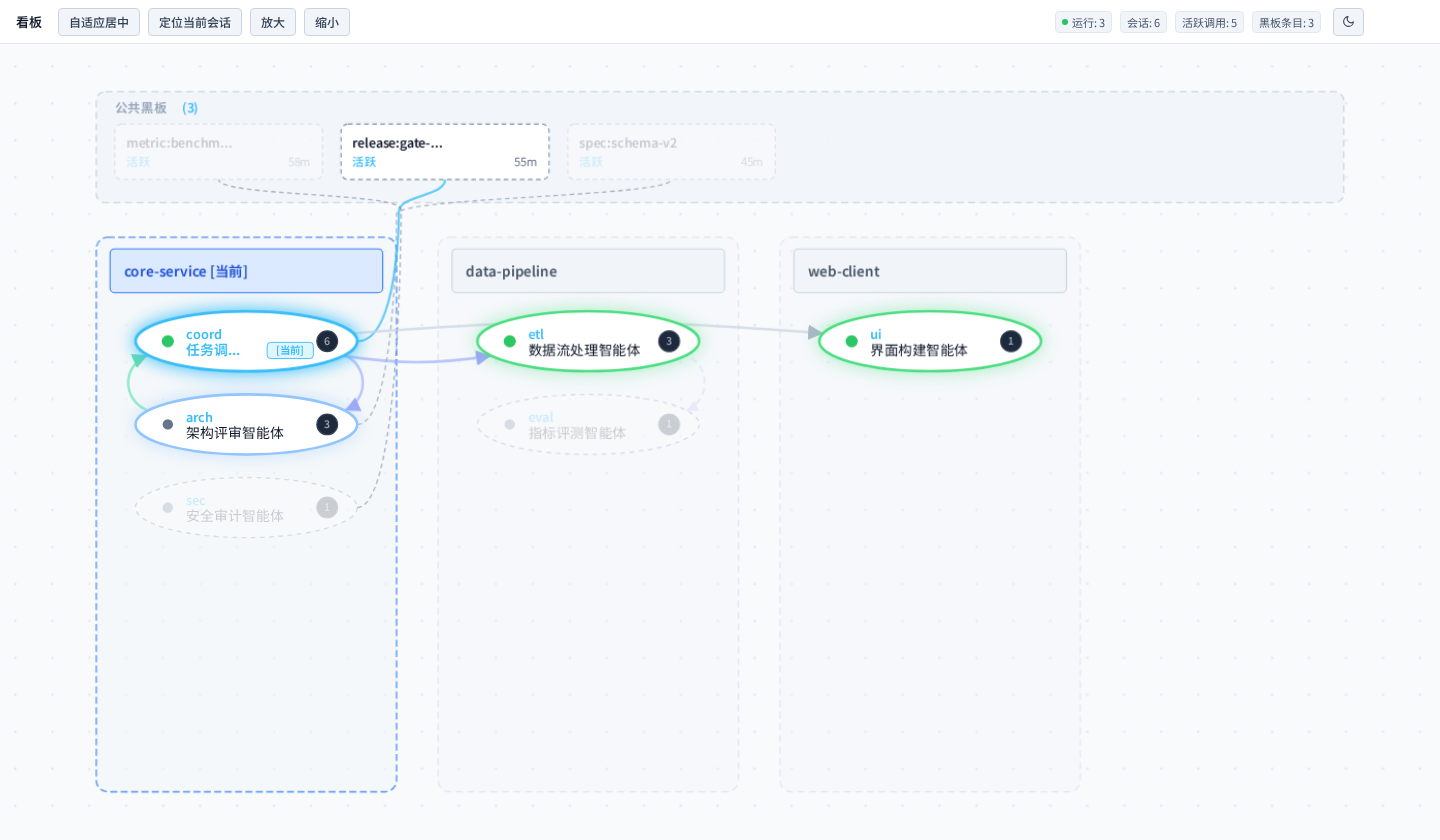
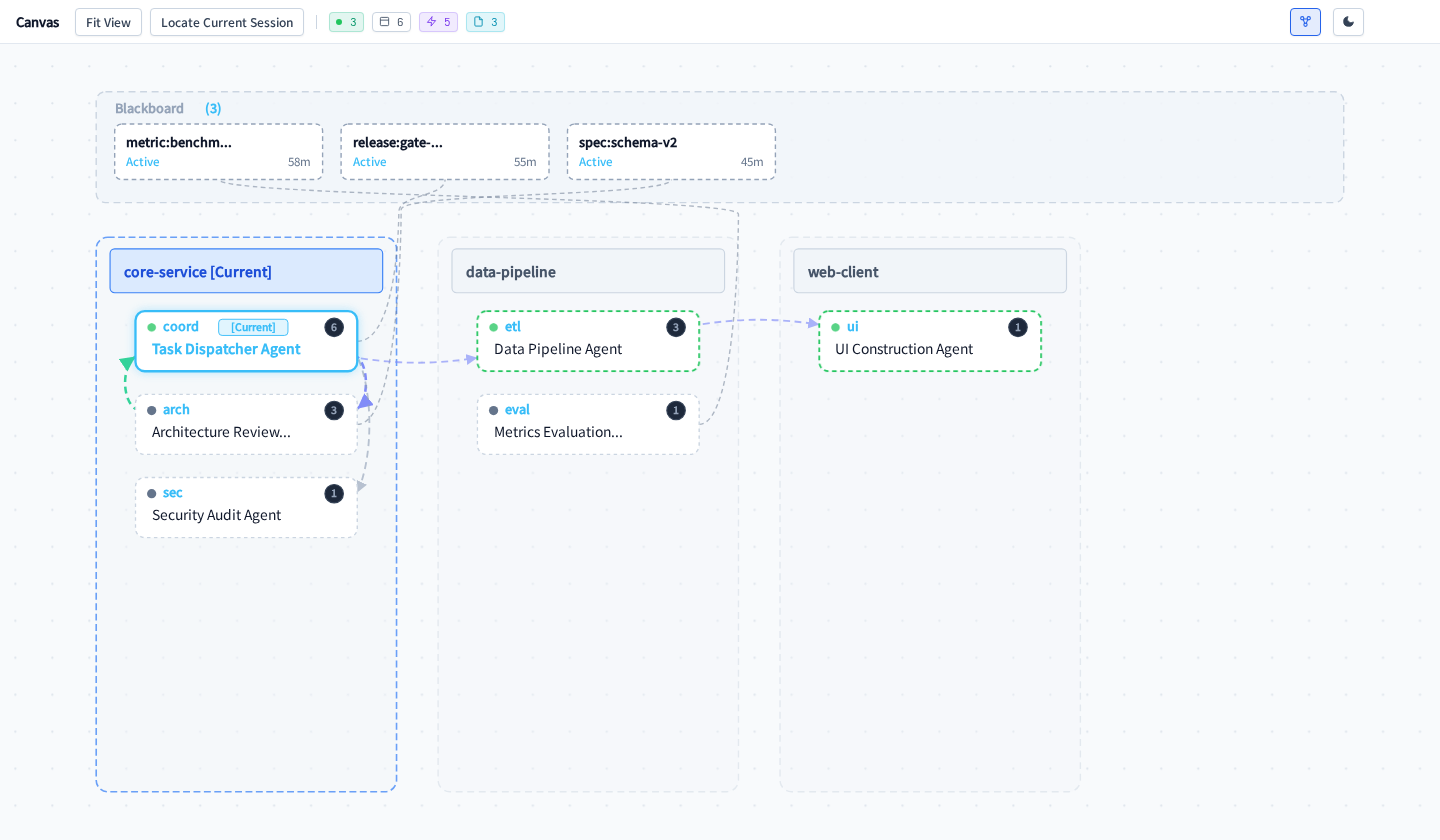
docs(canvas): refresh bilingual canvas demos for adr-0023 and adr-0026

diff --git a/README_ZH.md b/README_ZH.md
@@ -80,7 +80,7 @@ dsh plugin --profile web remove dsh-call-session
 在 DSH Web 会话视图顶部提供看板，用于实时观察工作区内的多会话协作全景：
 
 <p align="center">
-  <img src="./assets/canvas-demo.png" width="100%" alt="dsh-call-session canvas" />
+  <img src="./assets/canvas-demo-zh.png" width="100%" alt="dsh-call-session canvas" />
 </p>
 
 - 拓扑呈现：展示工作区分组列、运行与就绪状态节点、黑板条目及存活倒计时、调用连线轨迹。
